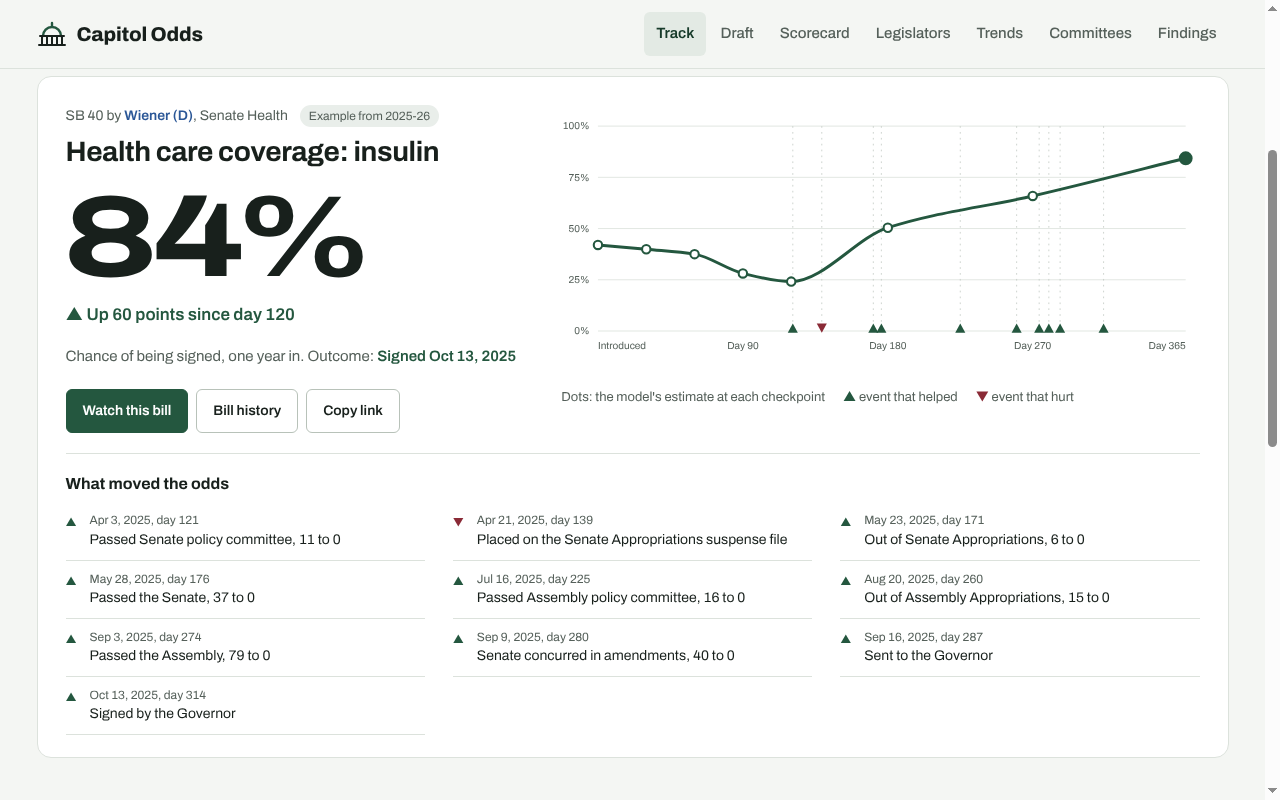
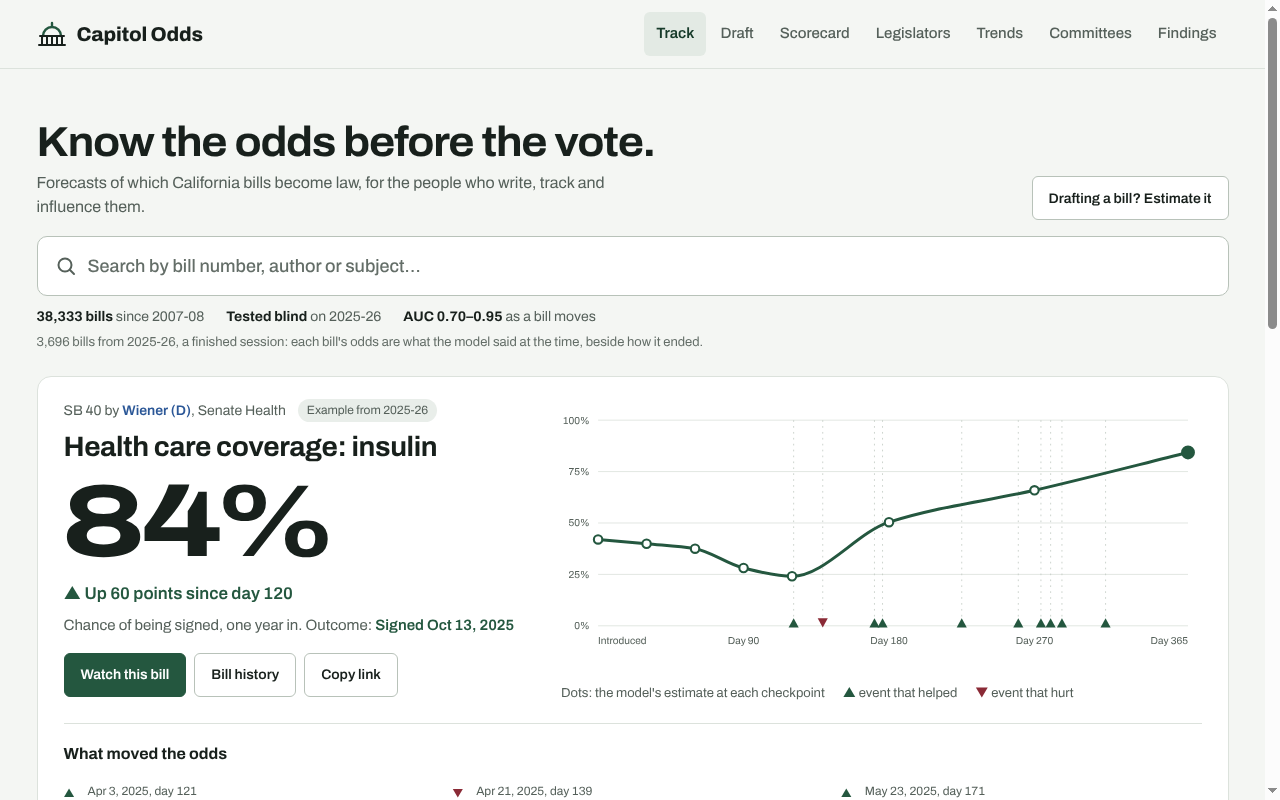
Show the whole odds chart on first load, desktop and phone
The chart spans the featured card's right column next to the odds, with the actions under the
odds. The hero is shorter (smaller headline, tighter search and facts). On a phone the brand
and nav share one row, the chart comes before the buttons and is shorter, and very short
screens drop the facts line. Checked that the chart and its legend sit above the fold at
1440x900, 1366x768, 1280x800, 1024x768, 768x1024, 390x844 and 375x667.

Claude-Session: https://claude.ai/code/session_012WpdVDKkAdx5bLLcT1wHBG

diff --git a/site/index.html b/site/index.html
@@ -9,7 +9,7 @@
 <link rel="preconnect" href="https://fonts.googleapis.com">
 <link rel="preconnect" href="https://fonts.gstatic.com" crossorigin>
 <link rel="stylesheet" href="https://fonts.googleapis.com/css2?family=Archivo:wdth,wght@62..125,100..900&display=swap">
-<link rel="stylesheet" href="common.css?v=2026-10-29c">
+<link rel="stylesheet" href="common.css?v=2026-10-29d">
 <style>
 /* Home page: tracking view (default) and drafting view */
 .odds{font-weight:800;font-stretch:125%;letter-spacing:-.03em;line-height:.88;color:var(--ink);font-variant-numeric:tabular-nums}
@@ -17,15 +17,15 @@
 .mv{font-weight:600;font-size:17px}
 
 /* Intro */
-.hero{padding:40px 0 8px}
+.hero{padding:28px 0 4px}
 .hero-top{display:flex;flex-wrap:wrap;align-items:flex-end;justify-content:space-between;gap:16px 32px}
-.hero h1{font-size:clamp(32px,4.2vw,50px);line-height:1.04;letter-spacing:-.03em;margin:0;font-stretch:106%}
-.hero-top p{margin:10px 0 0;color:var(--muted);font-size:17px;max-width:60ch}
-.facts{display:flex;flex-wrap:wrap;gap:6px 22px;margin:14px 0 0;padding:0;list-style:none;font-size:14px;color:var(--muted)}
+.hero h1{font-size:clamp(26px,3.4vw,42px);line-height:1.04;letter-spacing:-.03em;margin:0;font-stretch:106%}
+.hero-top p{margin:6px 0 0;color:var(--muted);font-size:16px;max-width:64ch}
+.facts{display:flex;flex-wrap:wrap;gap:4px 22px;margin:10px 0 0;padding:0;list-style:none;font-size:14px;color:var(--muted)}
 .facts b{color:var(--ink);font-weight:700}
-.facts .st{flex-basis:100%;color:var(--subtle);font-size:13px}
+.facts .st{color:var(--subtle);font-size:13px}
 /* Search */
-.search{position:relative;margin:24px 0 0}
+.search{position:relative;margin:16px 0 0}
 .search .box{display:flex;align-items:center;gap:12px;background:var(--panel);border:1px solid var(--line-strong);border-radius:var(--r-md);padding:0 18px;min-height:60px}
 .search .box:focus-within{box-shadow:var(--focus)}
 .search input{flex:1;min-width:0;border:0;background:transparent;font-size:18px;padding:16px 0;min-height:58px}
@@ -43,15 +43,17 @@
 .results .oc{font-size:13px;min-width:84px;text-align:right}
 
 /* Featured bill */
-.featured{margin-top:32px;background:var(--panel);border:1px solid var(--line);border-radius:var(--r-lg);padding:28px 28px 8px}
-.fgrid{display:grid;grid-template-columns:minmax(0,5fr) minmax(0,7fr);gap:24px 40px;align-items:start}
+.featured{margin-top:20px;background:var(--panel);border:1px solid var(--line);border-radius:var(--r-lg);padding:22px 26px 6px}
+.fgrid{display:grid;grid-template-columns:minmax(0,5fr) minmax(0,7fr);grid-template-areas:"info chart" "acts chart";grid-template-rows:auto 1fr;gap:16px 40px;align-items:start}
+.quote{grid-area:info}.fchart{grid-area:chart}.factions{grid-area:acts}
+.qrow{display:flex;flex-wrap:wrap;align-items:flex-end;gap:6px 18px}
 .fhead{display:flex;flex-wrap:wrap;gap:6px 12px;align-items:center;font-size:14px;color:var(--muted)}
 .fhead .tag{margin:0}
 .featured h2{font-size:clamp(22px,2.4vw,28px);line-height:1.2;margin:8px 0 0;letter-spacing:-.015em;font-weight:700}
-.quote .odds{font-size:clamp(80px,9vw,124px);margin-top:18px}
-.quote .sub p{margin:6px 0 0;color:var(--muted);font-size:15px}
-.quote .mv{margin-top:14px}
-.factions{display:flex;flex-wrap:wrap;gap:8px;margin-top:20px}
+.quote .odds{font-size:clamp(76px,8vw,116px);margin-top:14px;flex-basis:100%}
+.quote .sub{margin:6px 0 0;color:var(--muted);font-size:15px}
+.quote .mv{margin:8px 0 0}
+.factions{display:flex;flex-wrap:wrap;gap:8px;align-self:start}
 .chart{position:relative;margin-top:6px}
 .chart svg{display:block;width:100%;height:auto;overflow:visible}
 .chart .pt{cursor:pointer;outline:none}
@@ -206,13 +208,39 @@ details.more summary{cursor:pointer;color:var(--ink);font-weight:600;min-height:
 .pop .none{padding:16px 12px;color:var(--muted)}
 @media (max-width:640px){.pop{left:16px!important;right:16px;width:auto;top:auto!important;bottom:16px;max-height:70vh}.pop ul{max-height:50vh}}
 
+@media (max-width:640px) and (max-height:720px){
+  .facts,.fhead{display:none}
+  .hero h1{font-size:22px}
+  .quote .odds{font-size:48px!important}
+  .featured h2{font-size:17px!important;margin-top:0!important}
+  .legend>span:first-child{display:none}
+}
 @media (max-width:960px){
+  .facts .st{display:none}
   .fgrid,.dgrid,.moves,.acc{grid-template-columns:minmax(0,1fr)}
+  .fgrid{grid-template-areas:"info" "chart" "acts";grid-template-rows:auto}
+  .quote .odds{flex-basis:auto;font-size:clamp(56px,10vw,84px);margin-top:8px}
+  .qmeta{padding-bottom:6px;flex:1;min-width:170px}
   .timeline ol{grid-template-columns:repeat(2,minmax(0,1fr))}
   .res{position:static}
 }
 @media (max-width:640px){
-  .featured{padding:20px 16px 4px}
+  .hero{padding-top:16px}
+  .hero-top p,.hero-top .btn,.facts .st,.fhead .tag{display:none}
+  .hero h1{font-size:26px}
+  .search{margin-top:12px}
+  .search .box{min-height:50px}
+  .search input{min-height:48px;padding:10px 0;font-size:16px}
+  .facts{font-size:13px;gap:2px 14px}
+  .facts li:nth-child(3){display:none}
+  .featured{margin-top:14px}
+  .featured h2{font-size:19px;margin-top:4px}
+  .quote .odds{font-size:56px;margin-top:6px}
+  .quote .mv{font-size:15px}
+  .quote .sub{font-size:13px;margin-top:2px}
+  .fgrid{gap:10px}
+  .legend{font-size:12px;gap:2px 12px}
+  .featured{padding:16px 14px 4px}
   .acc{padding:20px 16px}
   .timeline ol{grid-template-columns:minmax(0,1fr)}
   .timeline ol:not(.all) li:nth-child(n+6){display:none}
@@ -369,7 +397,7 @@ details.more summary{cursor:pointer;color:var(--ink);font-weight:600;min-height:
 <footer>Not affiliated with any office or legislator. Not a forecast of any specific bill and not advice.<br>Source: California Legislative Information bulk export (leginfo). Model code, tests and methodology are in the repository.</footer>
 </div></main>
 <script>if(/[?&](sess|chamber|scope|method|budget|sort)=/.test(location.search))location.replace("scorecard.html"+location.search+location.hash);</script>
-<script src="common.js?v=2026-10-29c"></script>
+<script src="common.js?v=2026-10-29d"></script>
 <script src="insights.js"></script>
 <script src="data/model.js"></script>
 <script>
@@ -820,7 +848,7 @@ function monotone(pts) {
   return d;
 }
 function chart(b, evs) {
-  const narrow = (innerWidth > 960 ? $("tbill").clientWidth * 0.6 : $("tbill").clientWidth) < 520, ks = TRACKING.checkpoints, W = narrow ? 400 : 760, H = 320, L = 44, R = 16, Tp = 18, Bt = 262;
+  const narrow = (innerWidth > 960 ? $("tbill").clientWidth * 0.6 : $("tbill").clientWidth) < 520, ks = TRACKING.checkpoints, W = narrow ? 400 : 760, H = narrow ? 280 : 320, L = 44, R = 16, Tp = narrow ? 12 : 18, Bt = narrow ? 228 : 262;
   const xmax = Math.max(365, ...evs.map(e => e.day));
   const X = d => L + (W - L - R) * Math.min(d, xmax) / xmax, Y = p => Bt - (Bt - Tp) * p;
   const pts = ks.map((k, j) => b.p[j] == null ? null : [X(k), Y(b.p[j]), k, b.p[j]]).filter(Boolean);
@@ -857,12 +885,10 @@ function showBill(id, quiet) {
     <div class="quote">
       <div class="fhead"><span>${esc(spaced(b.bill))} by <span class="${b.party}">${esc(b.member)} (${esc(b.party)})</span>, ${esc(b.area)}</span>${isEx ? `<span class="tag">Example from ${label(TRACKING.session)}</span>` : ""}</div>
       <h2>${esc(b.title.replace(/\.$/, ""))}</h2>
-      <div class="odds">${p == null ? "–" : pc(p)}</div>
-      ${mv}
-      <div class="sub"><p>Chance of being signed${i >= 0 ? `, ${i === 0 ? "at introduction" : ks[i] === 365 ? "one year in" : `day ${ks[i]}`}` : ""}. Outcome: <span class="o-${b.outcome}">${esc(outTxt)}</span></p></div>
-      <div class="factions"><button class="btn primary" type="button" id="wbtn" aria-pressed="${watched}">${watched ? "Remove from watchlist" : "Watch this bill"}</button><a class="btn" href="${CL.leginfo(TRACKING.session, b.bill)}" target="_blank" rel="noopener">Bill history</a><button class="btn" type="button" id="tshare">Copy link</button></div>
+      <div class="qrow"><div class="odds">${p == null ? "–" : pc(p)}</div><div class="qmeta">${mv}<p class="sub">Chance of being signed${i >= 0 ? `, ${i === 0 ? "at introduction" : ks[i] === 365 ? "one year in" : `day ${ks[i]}`}` : ""}. Outcome: <span class="o-${b.outcome}">${esc(outTxt)}</span></p></div></div>
     </div>
-    <div>${chart(b, evs)}</div>
+    <div class="fchart">${chart(b, evs)}</div>
+    <div class="factions"><button class="btn primary" type="button" id="wbtn" aria-pressed="${watched}">${watched ? "Remove from watchlist" : "Watch this bill"}</button><a class="btn" href="${CL.leginfo(TRACKING.session, b.bill)}" target="_blank" rel="noopener">Bill history</a><button class="btn" type="button" id="tshare">Copy link</button></div>
   </div>
   <div class="timeline" id="tev"><h3>What moved the odds</h3>${tl}</div></div>`;
   $("wbtn").addEventListener("click", () => toggleWatch(id));

diff --git a/site/legislator.html b/site/legislator.html
@@ -9,7 +9,7 @@
 <link rel="preconnect" href="https://fonts.googleapis.com">
 <link rel="preconnect" href="https://fonts.gstatic.com" crossorigin>
 <link rel="stylesheet" href="https://fonts.googleapis.com/css2?family=Archivo:wdth,wght@62..125,100..900&display=swap">
-<link rel="stylesheet" href="common.css?v=2026-10-29c">
+<link rel="stylesheet" href="common.css?v=2026-10-29d">
 <style>
 .scroll{overflow:auto}
 th,td{text-align:left;vertical-align:top}
@@ -26,7 +26,7 @@ tbody tr.link{cursor:pointer}tbody tr.link:hover{background:var(--hi)}
 </div></header>
 <main><div class="wrap" id="main"><p class="loading">Loading…</p></div>
 <div class="wrap"><footer>Not affiliated with any office or legislator. Not an endorsement of any legislator.<br>Source: California Legislative Information bulk export (leginfo): bills, outcomes and committee roll calls. Methodology is in the repository.</footer></div></main>
-<script src="common.js?v=2026-10-29c"></script>
+<script src="common.js?v=2026-10-29d"></script>
 <script src="data/sessions.js"></script>
 <script src="data/people_index.js"></script>
 <script>

diff --git a/site/committees.html b/site/committees.html
@@ -9,7 +9,7 @@
 <link rel="preconnect" href="https://fonts.googleapis.com">
 <link rel="preconnect" href="https://fonts.gstatic.com" crossorigin>
 <link rel="stylesheet" href="https://fonts.googleapis.com/css2?family=Archivo:wdth,wght@62..125,100..900&display=swap">
-<link rel="stylesheet" href="common.css?v=2026-10-29c">
+<link rel="stylesheet" href="common.css?v=2026-10-29d">
 <style>
 .scroll{overflow:auto}
 th,td{text-align:right;vertical-align:top}
@@ -32,7 +32,7 @@ th:nth-child(-n+4),td:nth-child(-n+4){text-align:left}
 <div id="out"><p class="loading">Loading…</p></div>
 <footer>Not affiliated with any office or legislator.<br>Source: California Legislative Information bulk export (leginfo), committee roll calls (BILL_DETAIL_VOTE_TBL). Roster checks use Internet Archive copies of each committee's members page; see data/processed/committee_roster_check.csv in the repository.</footer>
 </div></main>
-<script src="common.js?v=2026-10-29c"></script>
+<script src="common.js?v=2026-10-29d"></script>
 <script src="data/committees_index.js"></script>
 <script>
 CL.nav("committees.html");

diff --git a/site/trends.html b/site/trends.html
@@ -9,7 +9,7 @@
 <link rel="preconnect" href="https://fonts.googleapis.com">
 <link rel="preconnect" href="https://fonts.gstatic.com" crossorigin>
 <link rel="stylesheet" href="https://fonts.googleapis.com/css2?family=Archivo:wdth,wght@62..125,100..900&display=swap">
-<link rel="stylesheet" href="common.css?v=2026-10-29c">
+<link rel="stylesheet" href="common.css?v=2026-10-29d">
 <style>
 .bars{display:grid;grid-template-columns:minmax(120px,300px) 1fr 64px;gap:6px 10px;align-items:center;font-size:14px}
 .bars .lbl{overflow:hidden;text-overflow:ellipsis;white-space:nowrap}
@@ -45,7 +45,7 @@ th:first-child,td:first-child{text-align:left}
 <div id="out"></div>
 <footer>Not affiliated with any office or legislator.<br>Source: California Legislative Information bulk export (leginfo), including the Governor's veto messages. Pipeline, tests and methodology are in the repository.</footer>
 </div></main>
-<script src="common.js?v=2026-10-29c"></script>
+<script src="common.js?v=2026-10-29d"></script>
 <script src="insights.js"></script>
 <script>
 CL.nav("trends.html");

diff --git a/site/findings.html b/site/findings.html
@@ -9,7 +9,7 @@
 <link rel="preconnect" href="https://fonts.googleapis.com">
 <link rel="preconnect" href="https://fonts.gstatic.com" crossorigin>
 <link rel="stylesheet" href="https://fonts.googleapis.com/css2?family=Archivo:wdth,wght@62..125,100..900&display=swap">
-<link rel="stylesheet" href="common.css?v=2026-10-29c">
+<link rel="stylesheet" href="common.css?v=2026-10-29d">
 <style>
 main .wrap{max-width:820px}
 article p{margin:8px 0}
@@ -34,7 +34,7 @@ article p{margin:6px 0}
 <div id="out"></div>
 <footer>Not affiliated with any office or legislator.<br>Source: California Legislative Information bulk export (leginfo). Pipeline, tests and methodology are in the repository.</footer>
 </div></main>
-<script src="common.js?v=2026-10-29c"></script>
+<script src="common.js?v=2026-10-29d"></script>
 <script src="insights.js"></script>
 <script>
 CL.nav("findings.html");

diff --git a/site/scorecard.html b/site/scorecard.html
@@ -9,7 +9,7 @@
 <link rel="preconnect" href="https://fonts.googleapis.com">
 <link rel="preconnect" href="https://fonts.gstatic.com" crossorigin>
 <link rel="stylesheet" href="https://fonts.googleapis.com/css2?family=Archivo:wdth,wght@62..125,100..900&display=swap">
-<link rel="stylesheet" href="common.css?v=2026-10-29c">
+<link rel="stylesheet" href="common.css?v=2026-10-29d">
 <style>
 th{position:sticky;top:0;cursor:pointer;white-space:nowrap}
 th[aria-sort]{color:var(--ink)}
@@ -45,7 +45,7 @@ dialog table td:nth-child(n){text-align:left;white-space:normal}
 </div></main>
 <dialog id="dlg"><div id="dbody"></div><form method="dialog"><button>Close</button></form></dialog>
 <script src="data/sessions.js"></script>
-<script src="common.js?v=2026-10-29c"></script>
+<script src="common.js?v=2026-10-29d"></script>
 <script>
 CL.nav("scorecard.html");
 const {esc} = CL;

diff --git a/site/common.css b/site/common.css
@@ -107,7 +107,10 @@ dialog::backdrop{background:rgba(24,32,28,.45)}
   body{font-size:15px}
   .wrap,body>header .wrap,.topbar-in{padding-left:16px;padding-right:16px}
   .topbar{position:static}
-  .topnav{margin-left:0;width:calc(100% + 32px);margin-right:-16px;flex-wrap:nowrap;overflow-x:auto;scrollbar-width:none;padding-right:16px}
+  .topbar-in{flex-wrap:nowrap;gap:12px;padding-top:6px;padding-bottom:6px}
+  .brand{font-size:17px;flex:none}
+  .brand svg{width:24px}
+  .topnav{margin-left:0;flex:1;min-width:0;margin-right:-16px;flex-wrap:nowrap;overflow-x:auto;scrollbar-width:none;padding-right:16px}
   .topnav::-webkit-scrollbar{display:none}
   .topnav a{flex:none}
   .topnav a{padding:10px 9px;font-size:14px}
